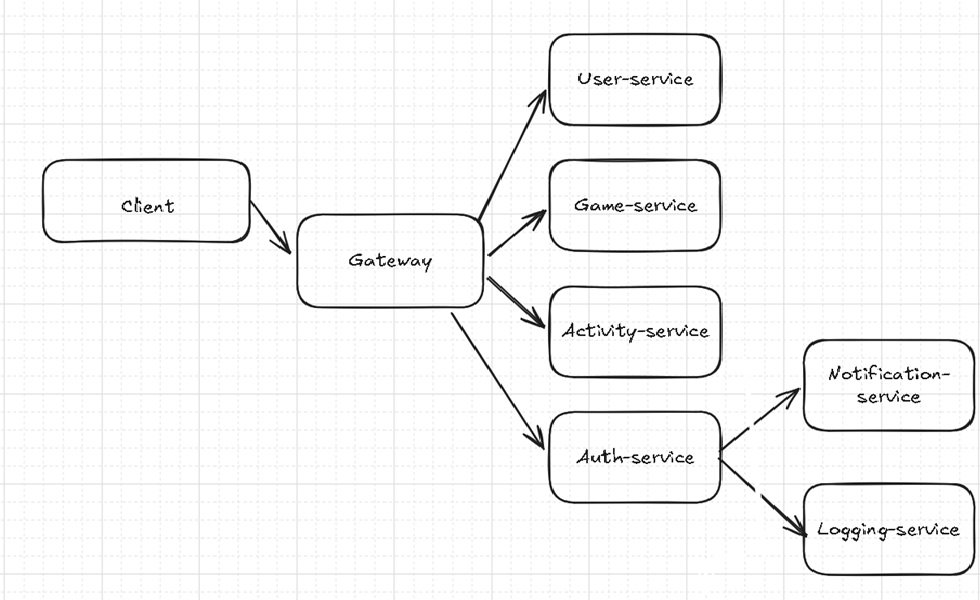
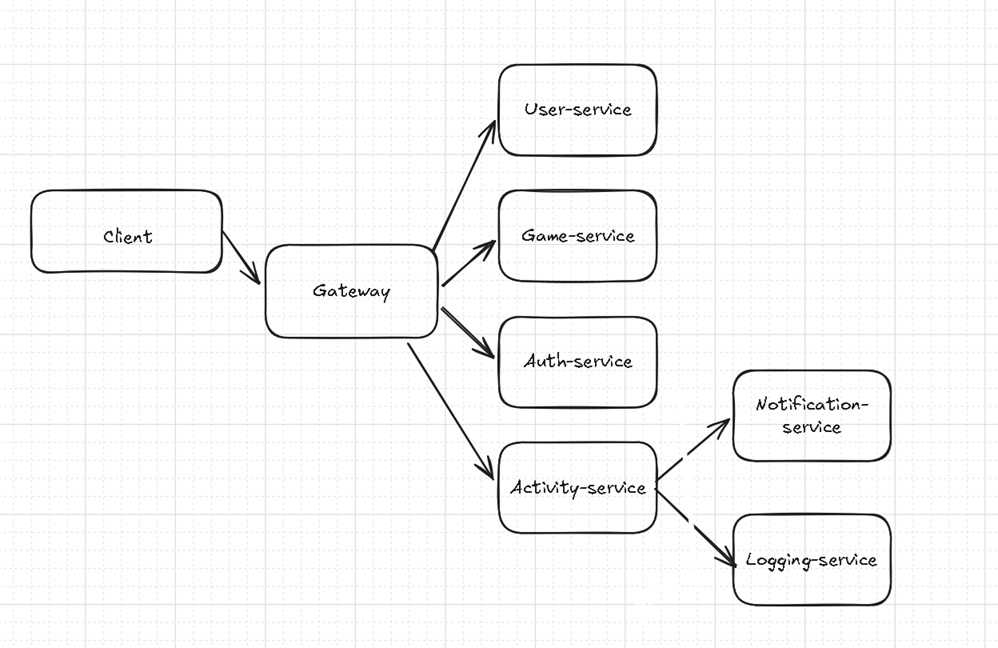
reflection: 1&2

diff --git a/modules/module-01/REFLECTION.md b/modules/module-01/REFLECTION.md
@@ -24,6 +24,12 @@ Think about it from three angles: the developer who has to change code, the team
 
 > _Your answer:_
 
+Developer: each service has a single responsibility and a clear boundary — you know exactly where the logging code lives, what it owns, and what it doesn't touch. Adding a new feature to logging-service doesn't require reading auth or game code first.
+
+Deployment team: services can be scaled independently — if activity-service is under heavy load, you spin up more instances of just that service without touching the others. You can also roll back one service without rolling back the entire system.
+
+User: if logging-service crashes, they can still browse games and log in — only activity tracking is affected, not the whole experience.
+
 ---
 
 ## 2. Your choice
@@ -35,6 +41,12 @@ Look at your service map. Every arrow between two services is a decision someone
 What would break, slow down, or become harder to manage if you merged those two services back together?
 
 > _Your answer:_
+
+activity-service -> logging-service.
+
+The line exists because consent and legal compliance is a separate concern from tracking what users do. Activity-service records events; logging-service decides whether it's even legal to store them.
+If merged: changing GDPR consent logic means touching the same codebase as activity tracking. One team owns legal compliance, another owns product analytics and merging them forces two teams to work in the same service. And this is a bad practice because they would be stepping on each other's changes, causing merge conflicts, and needing to coordinate deployments for unrelated reasons, etc.
+
 
 ---
 
